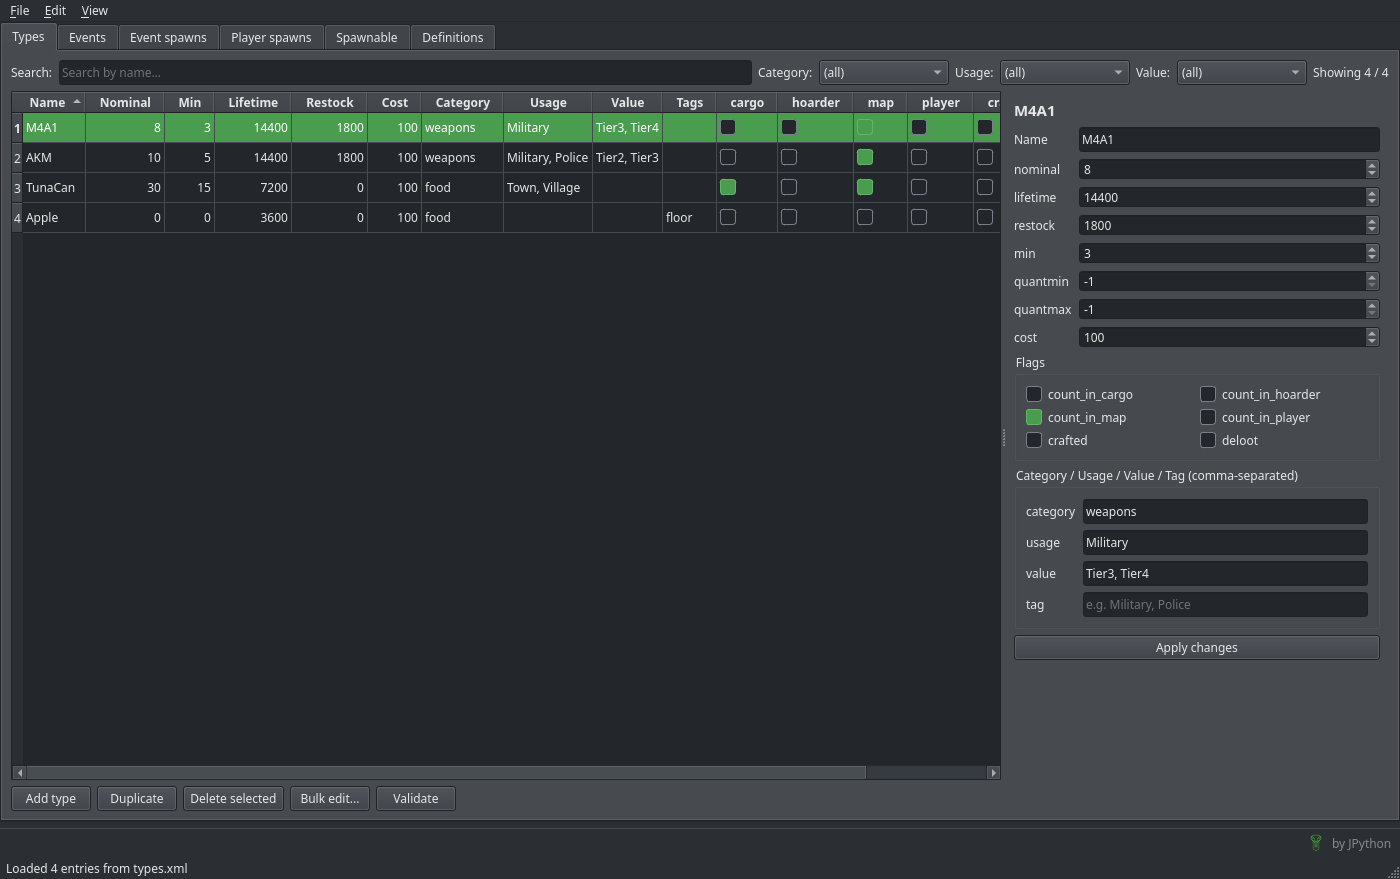
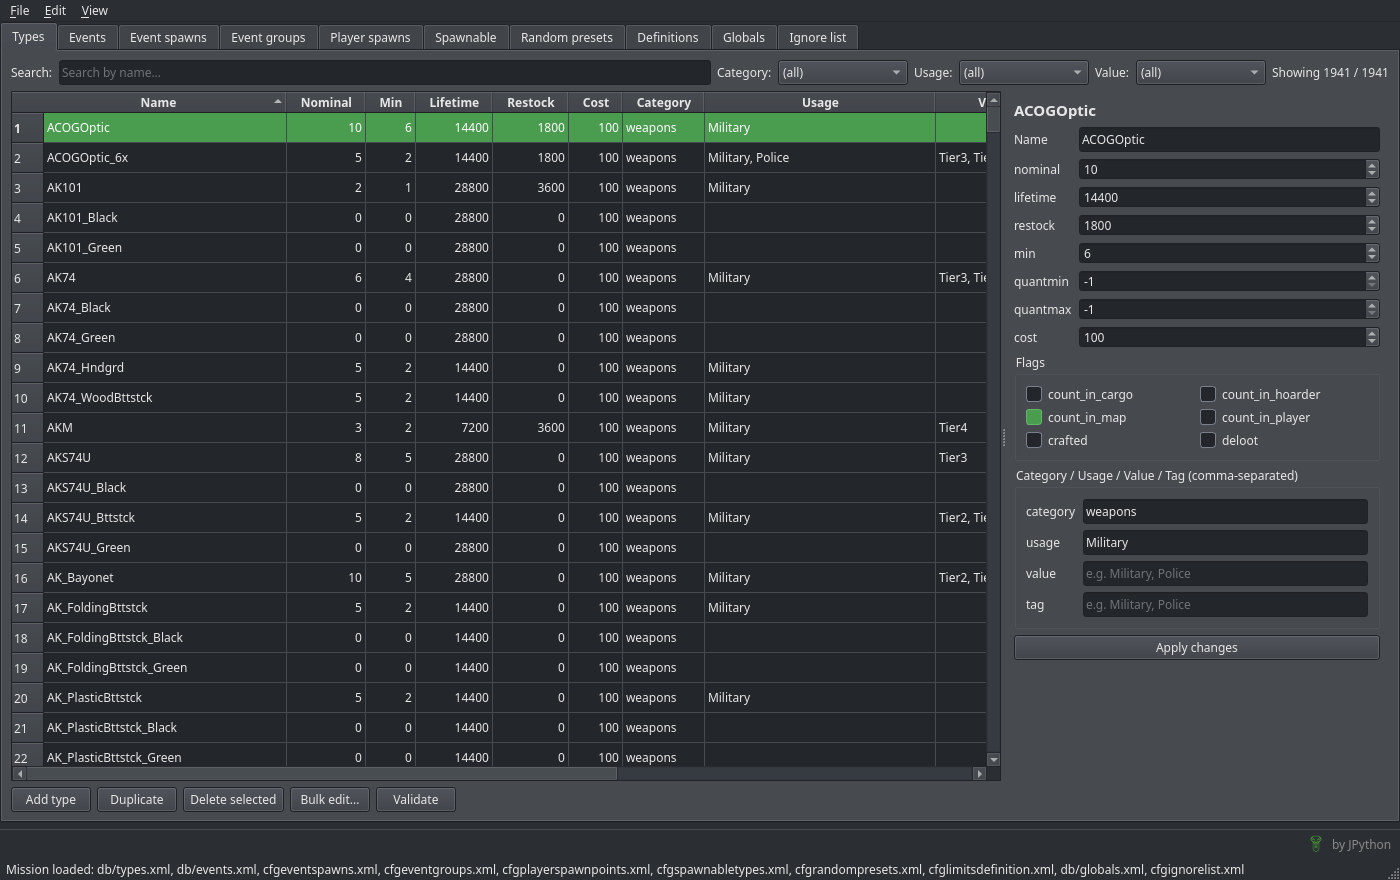
update: readme

diff --git a/README.md b/README.md
@@ -7,8 +7,9 @@
 <p align="center">
   Wieloplatformowy edytor plików XML ekonomii (Central Economy) serwera DayZ.<br>
   Zakładki dla <b>types</b>, <b>events</b>, <b>cfgeventspawns</b>,
-  <b>cfgplayerspawnpoints</b>, <b>cfgspawnabletypes</b> i
-  <b>cfglimitsdefinition</b> — z trybem misji, edycją masową, walidacją między
+  <b>cfgeventgroups</b>, <b>cfgplayerspawnpoints</b>, <b>cfgspawnabletypes</b>,
+  <b>cfgrandompresets</b>, <b>cfglimitsdefinition</b>, <b>globals</b> i
+  <b>cfgignorelist</b> — z trybem misji, edycją masową, walidacją między
   plikami, cofaniem zmian i ciemnym/jasnym motywem.
 </p>
 
@@ -38,11 +39,15 @@ Nie musisz instalować Pythona ani niczego dodatkowego — pobierasz gotowy plik
 
 - **Tryb misji** (`File → Open Mission Folder`) — wskaż folder misji, a narzędzie
   samo wczyta `db/types.xml`, `db/events.xml`, `cfgeventspawns.xml`,
-  `cfgplayerspawnpoints.xml`, `cfgspawnabletypes.xml` i `cfglimitsdefinition.xml`
-  do właściwych zakładek. **Save All** (`Ctrl+Shift+S`) zapisuje wszystkie
-  zmienione pliki jednym skrótem.
-- **Sześć edytorów w zakładkach** — types, events, event spawns, player spawns,
-  spawnabletypes, definitions; każda z własną historią zmian i znacznikiem `*`.
+  `cfgeventgroups.xml`, `cfgplayerspawnpoints.xml`, `cfgspawnabletypes.xml`,
+  `cfgrandompresets.xml`, `cfglimitsdefinition.xml`, `db/globals.xml` i
+  `cfgignorelist.xml` do właściwych zakładek. **Save All** (`Ctrl+Shift+S`)
+  zapisuje wszystkie zmienione pliki jednym skrótem, a **File → Open Recent
+  Mission** pamięta ostatnio otwierane foldery. Rozmiar okna i położenie suwaka
+  są zapamiętywane między uruchomieniami.
+- **Dziesięć edytorów w zakładkach** — types, events, event spawns, event groups,
+  player spawns, spawnabletypes, random presets, definitions, globals, ignore
+  list; każda z własną historią zmian i znacznikiem `*`.
 - **Tabela wszystkich wpisów** z sortowaniem po kolumnach; flagi klikasz
   bezpośrednio w tabeli (kolumny checkbox).
 - **Wyszukiwanie po nazwie** oraz filtry (np. `category`/`usage`/`value`)
@@ -51,24 +56,83 @@ Nie musisz instalować Pythona ani niczego dodatkowego — pobierasz gotowy plik
   - *types*: skalary, flagi oraz listy `category/usage/value/tag` (z podpowiedziami
     z cfglimitsdefinition);
   - *events*: skalary, `position`/`limit`, flagi oraz **tabela `children`**;
-  - *spawnabletypes*: **drzewo `attachments`/`cargo`** z itemami i szansami;
-  - *event spawns*: **tabela pozycji** `<pos x z a>` dla eventu;
+  - *spawnabletypes*: **drzewo `attachments`/`cargo`** z itemami i szansami
+    (pole Name podpowiada classname'y z types.xml);
+  - *event spawns*: **tabela pozycji** `<pos x z a>` dla eventu
+    (pole Name podpowiada nazwy z events.xml);
   - *player spawns*: grupy punktów spawnu graczy (fresh/hop/travel) z tabelą
-    pozycji.
+    pozycji;
+  - *random presets*: presety `cargo`/`attachments` z polem `chance` i tabelą
+    itemów (pole Preset w spawnabletypes podpowiada nazwy presetów);
+  - *event groups*: grupy obiektów (wraki, konwoje) z tabelą `<child>`;
+  - *globals*: zmienne strojenia CE — edytowalne kolumny `type`/`value`;
+  - *ignore list*: klasy ignorowane przez sprzątanie CE
+    (pole Name podpowiada classname'y z types.xml).
 - **Edycja masowa** — zaznacz wiele wpisów (lub ustaw filtr) i zmień je naraz:
   ustaw / dodaj / pomnóż wartości liczbowe, włącz/wyłącz flagi, dodaj/usuń/zamień
   wartości list.
-- **Duplikowanie** wpisu (`Ctrl+D`) jako baza nowego.
+- **Duplikowanie** wpisu (`Ctrl+D`); **`Ctrl+N`** — nowy wpis.
+- **Kopiuj/wklej wpisy** (`Ctrl+C`/`Ctrl+V`, gdy tabela ma fokus) — także
+  **między misjami**: skopiuj wpisy, otwórz inną misję (`Open Recent`), wklej.
+  Wklejanie tylko do zakładki tego samego typu; przy kolizji nazw dopisek `_copy`.
 - **Walidacja + synergia między plikami** — duplikaty, złe zakresy, eventy bez
   `children`; wartości `usage/value/category/tag` spoza cfglimitsdefinition
   (uwzględnia też grupy z `cfglimitsdefinitionuser.xml`); wpisy spawnabletypes
-  bez `<type>` w types.xml oraz pozycje eventów bez `<event>` w events.xml.
-  Kliknięcie problemu zaznacza dany wpis.
+  bez `<type>` w types.xml **lub z `preset` spoza cfgrandompresets.xml**; pozycje
+  eventów bez `<event>` w events.xml; klasy ignore list spoza types.xml; złe
+  `chance` w presetach oraz `type`/`value` w globals.
+  **Validate All** (`Ctrl+Alt+V`) sprawdza wszystkie zakładki naraz, z filtrem
+  Errors/Warnings i licznikiem problemów na etykiecie zakładki; kliknięcie
+  problemu przeskakuje do właściwej zakładki i zaznacza wpis.
 - **Cofnij / Ponów** (`Ctrl+Z` / `Ctrl+Y`) dla każdej zmiany.
 - **Ciemny / jasny motyw** — przełącznik w menu **View**, zapamiętywany między
   uruchomieniami.
 - **Bezpieczny zapis** — zachowuje komentarze i formatowanie pliku; zmiana
   jednego pola daje jednoliniowy diff, w pełni czytelny dla silnika DayZ.
+
+## 📚 Który plik do czego? (i jak się łączą)
+
+Wszystkie te pliki obsługuje **Central Economy (CE)** — silnik DayZ, który
+decyduje, *co*, *gdzie*, *ile* i *jak długo* pojawia się na mapie (loot,
+eventy, pojazdy, zombie/zwierzęta). Poniżej co robi każda zakładka i jak wpływa
+na grę.
+
+| Zakładka | Plik | Za co odpowiada | Wpływ na grę |
+|---|---|---|---|
+| **Types** | `db/types.xml` | Główna baza przedmiotów: dla każdej klasy `nominal` (ile ma być), `min`, `lifetime` (jak długo leży), `restock`, `cost` + flagi (`count_in_map`, `deloot`…) i etykiety `usage/value/tag/category`. | Ustala, które przedmioty w ogóle istnieją w ekonomii i ich bazowe ilości/czas życia. To „serce" lootu. |
+| **Events** | `db/events.xml` | Dynamiczne eventy (wraki helikopterów, skażone strefy, konwoje, dostawy): budżet (`nominal/min/max`), `lifetime`, `restock` i tabela `<children>` z klasami do zrodzenia. | Definiuje *co i ile* pojawia się w ramach eventów — poza normalnym lootem budynkowym. |
+| **Event spawns** | `cfgeventspawns.xml` | Współrzędne `<pos x z a>` (i strefy) dla każdego eventu z `events.xml`. | Mówi silnikowi *gdzie* na mapie dany event może się pojawić. |
+| **Event groups** | `cfgeventgroups.xml` | Nazwane, gotowe układy obiektów (`<group>` z `<child>` o offsetach): np. cały konwój wraków, obstawa obozu. | Pozwala jednym eventem postawić całą scenę z wielu obiektów naraz, zamiast pojedynczych sztuk. |
+| **Player spawns** | `cfgplayerspawnpoints.xml` | Punkty spawnu graczy (świeży start / hop / travel) z listą pozycji. | Decyduje, *gdzie* w świat wchodzą nowi i odradzający się gracze. |
+| **Spawnable** | `cfgspawnabletypes.xml` | Dla przedmiotów z `types.xml`: co ma w sobie (`cargo`), co ma zamontowane (`attachments`), losowe damage/ilości. | Sprawia, że np. zrodzona broń ma magazynek/celownik, a plecak — zawartość. |
+| **Random presets** | `cfgrandompresets.xml` | Wielokrotnego użytku, ważone (`chance`) zestawy `cargo`/`attachments`. | Daje różnorodność wyposażenia bez wpisywania tego samego w każdym `cfgspawnabletypes`. |
+| **Definitions** | `cfglimitsdefinition.xml` | Słownik dozwolonych wartości `usage / value / tag / category` (+ aliasów z `cfglimitsdefinitionuser.xml`). | Definiuje „język", którym `types.xml` opisuje, *gdzie* i *w jakim tierze* rzadkości rzecz może się pojawić. |
+| **Globals** | `db/globals.xml` | Zmienne strojenia CE dla całego serwera: limity (`AnimalMaxCount`, `ZombieMaxCount`), timery sprzątania (`CleanupLifetime*`), `InitialSpawn`, `RespawnLimit`. | Ustawia globalne ramy ekonomii — wspólne dla wszystkich graczy naraz. |
+| **Ignore list** | `cfgignorelist.xml` | Klasy, które CE ma **pomijać** (nie liczyć, nie sprzątać, nie traktować jak loot). | Wyłącza pojedyncze klasy z ekonomii bez kasowania ich z `types.xml`. |
+
+### Jak te pliki się ze sobą łączą
+
+- **Definitions → Types → mapa.** `cfglimitsdefinition.xml` (+ `…user.xml`)
+  ustala słownik `usage/value/tag/category`; `types.xml` przypina te etykiety do
+  przedmiotów; punkty lootu na mapie mają te **same** etykiety, więc rzecz spawnuje
+  się tam, gdzie się „zgadza" (np. `usage=Military`, `value=Tier3`). Wpisanie
+  etykiety spoza słownika = przedmiot się nie pojawi tam, gdzie chcesz.
+- **Types → Spawnable → Random presets.** `types.xml` to lista klas; gdy
+  przedmiot się rodzi, `cfgspawnabletypes.xml` dokłada mu `cargo`/`attachments`,
+  a przez `preset="…"` sięga do wspólnego zestawu z `cfgrandompresets.xml`.
+- **Events → Event spawns → Event groups.** `events.xml` mówi *co i ile*,
+  `cfgeventspawns.xml` *gdzie*, a `cfgeventgroups.xml` dostarcza *gotowy układ
+  wielu obiektów* dla eventów obiektowych.
+- **Globals** nakłada globalne limity i timery na wszystko powyższe;
+  **Ignore list** wypina wybrane klasy z całego mechanizmu.
+
+> 💡 Program **pilnuje właśnie tych powiązań**: ostrzega, gdy `types.xml` używa
+> etykiety spoza `cfglimitsdefinition`, gdy `cfgspawnabletypes` odwołuje się do
+> nieistniejącego `<type>` lub `preset`, gdy event nie ma pozycji, albo gdy klasa
+> z ignore list nie istnieje w `types.xml` — a pola z nazwami podpowiada
+> automatycznie między plikami.
+
+---
 
 ## 🖱️ Szybki start
 